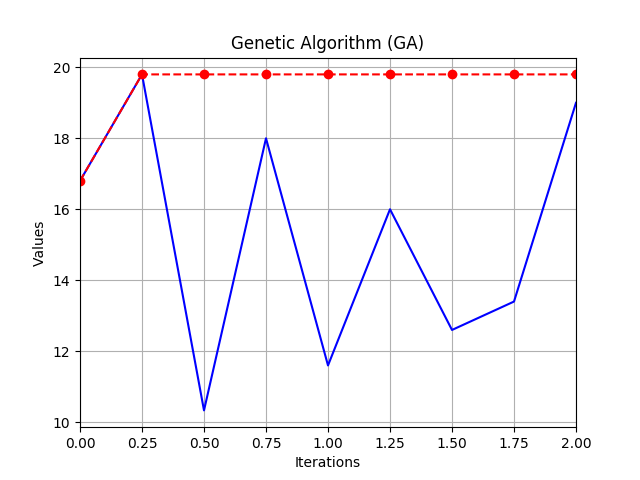
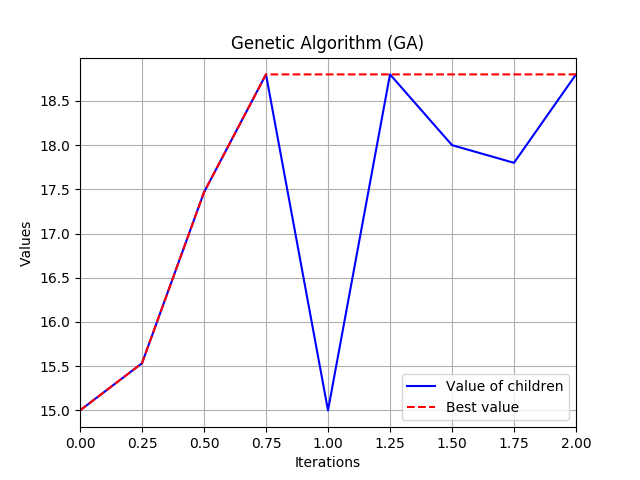
a

diff --git a/src/app.py b/src/app.py
@@ -48,19 +48,17 @@ y = out.ch
 y_b = out.ch_b
 y = np.insert(y, 0, out.bestcost[0])
 y_b = np.insert(y_b, 0, out.bestcost[0])
-print(y_b)
 x = np.arange(0, params.maxit + params.maxit/len(out.ch), step=params.maxit/len(out.ch))
 
-plt.plot(x, y, linestyle='-', color='b', label='Square')
-#plt.plot(out.bestcost, marker='o', linestyle='--', color='r', label='Square')
-plt.plot(x, y_b, marker='o', linestyle='--', color='r', label='Square')
+plt.plot(x, y, linestyle='-', color='b', label='Value of children')
+plt.plot(x, y_b, linestyle='--', color='r', label='Best value')
 plt.xlim(0, params.maxit)
-"""
-plt.plot(out.ch)
-plt.xticks(np.arange(0, params.maxit, step=0.5))
-"""
 plt.xlabel('Iterations')
 plt.ylabel('Values')
+plt.legend()
 plt.title('Genetic Algorithm (GA)')
 plt.grid(True)
 plt.savefig('figures/Score_of_all_children.png')
+
+
+#heueheuegue
